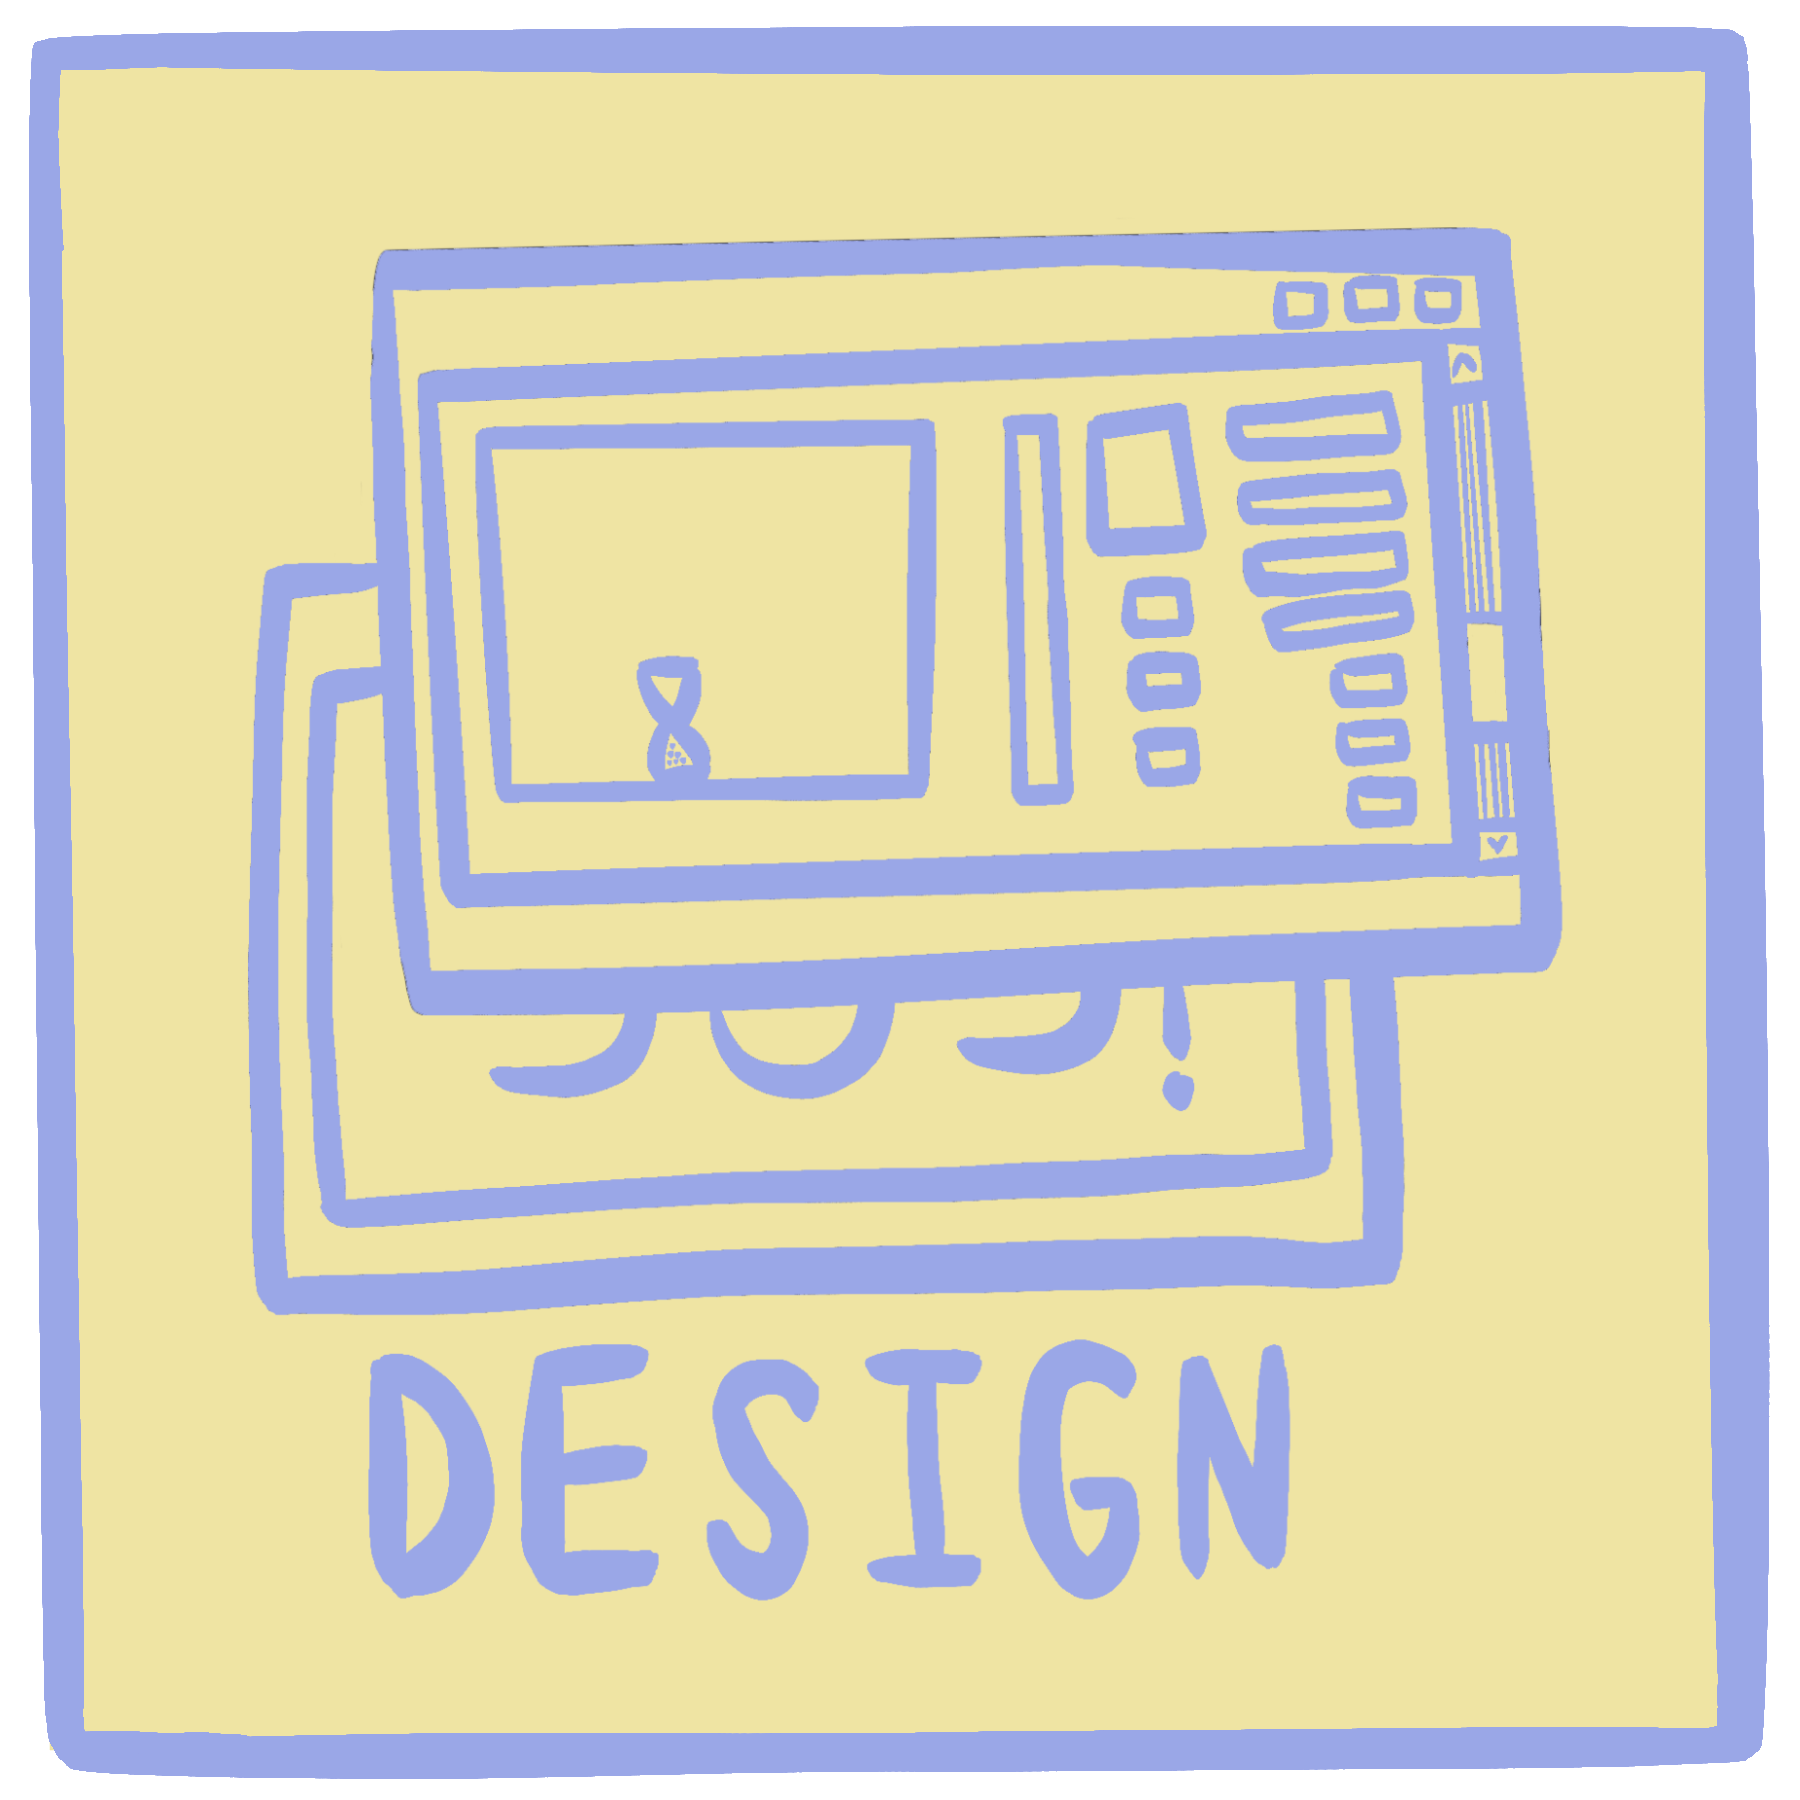
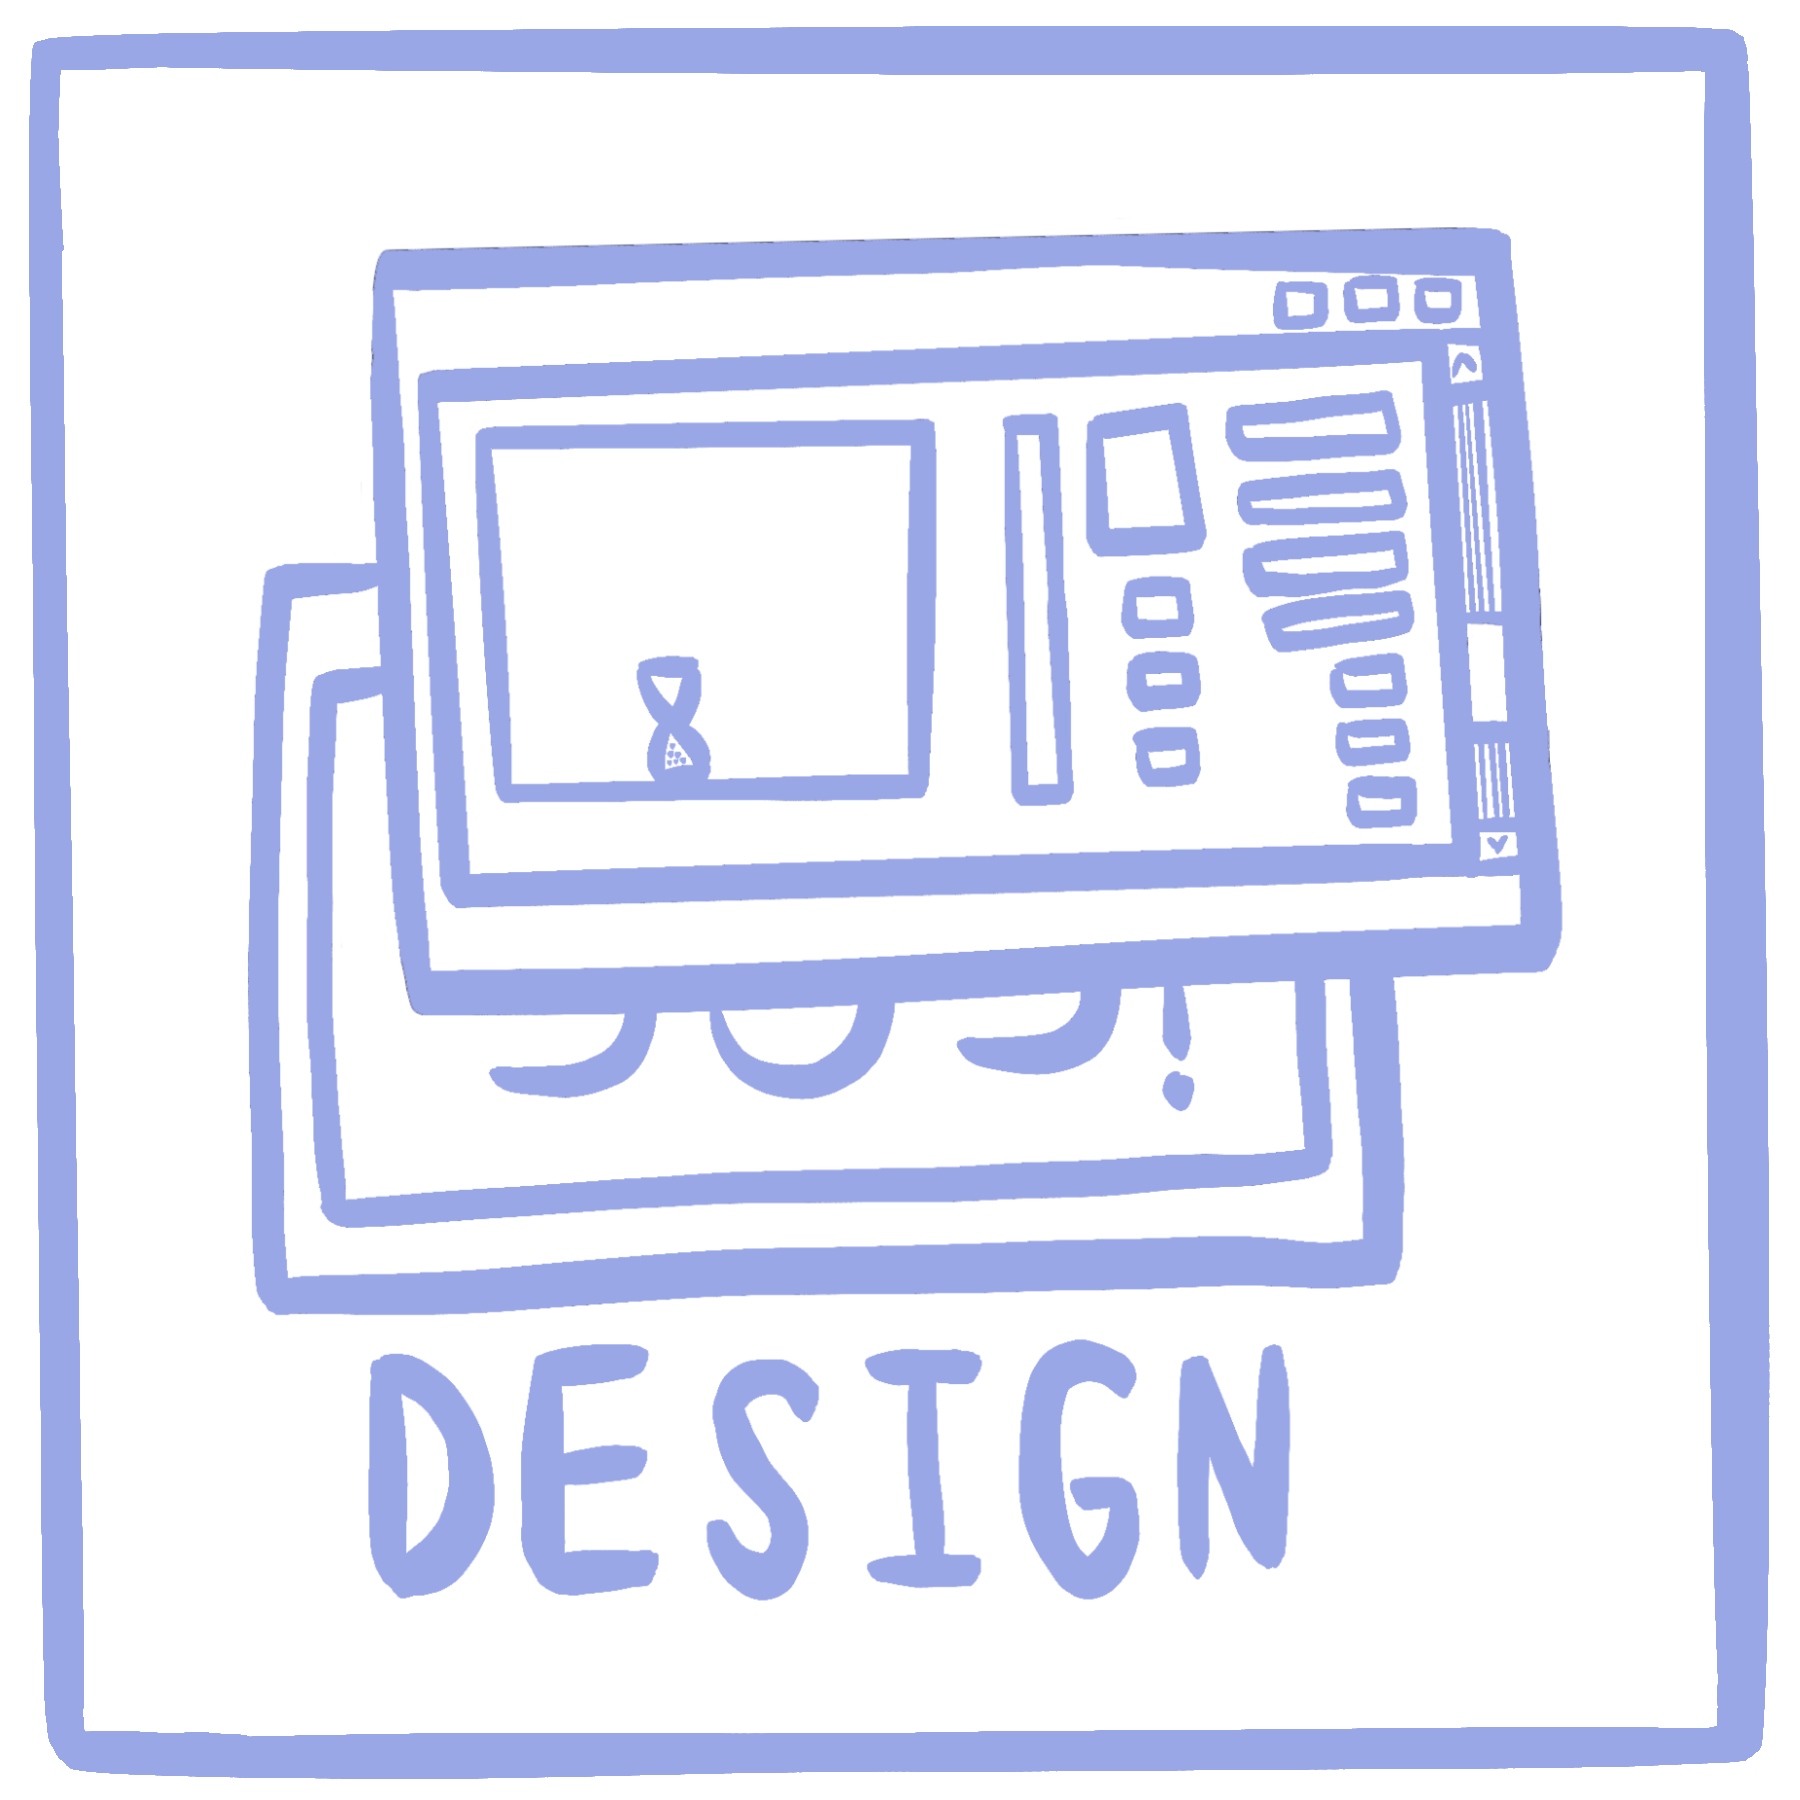
fixed background color
yellow was off and buttons were a diff color. changed to more accurate yellow and changed buttons to transparent to color match

diff --git a/css/portfolio.css b/css/portfolio.css
@@ -1,5 +1,5 @@
 body{
-    background-color:  #e7dc9c;
+    background-color:  #feeba6;
     margin: 0;
     font-family: 'Lato', sans-serif; 
     font-size: 20px;
@@ -8,7 +8,7 @@ body{
 }
 
 header{
-    background-color: #e7dc9c;
+    background-color: #feeba6;
     padding-top: 50px;
     padding-bottom: 50px;
     text-align: center;
